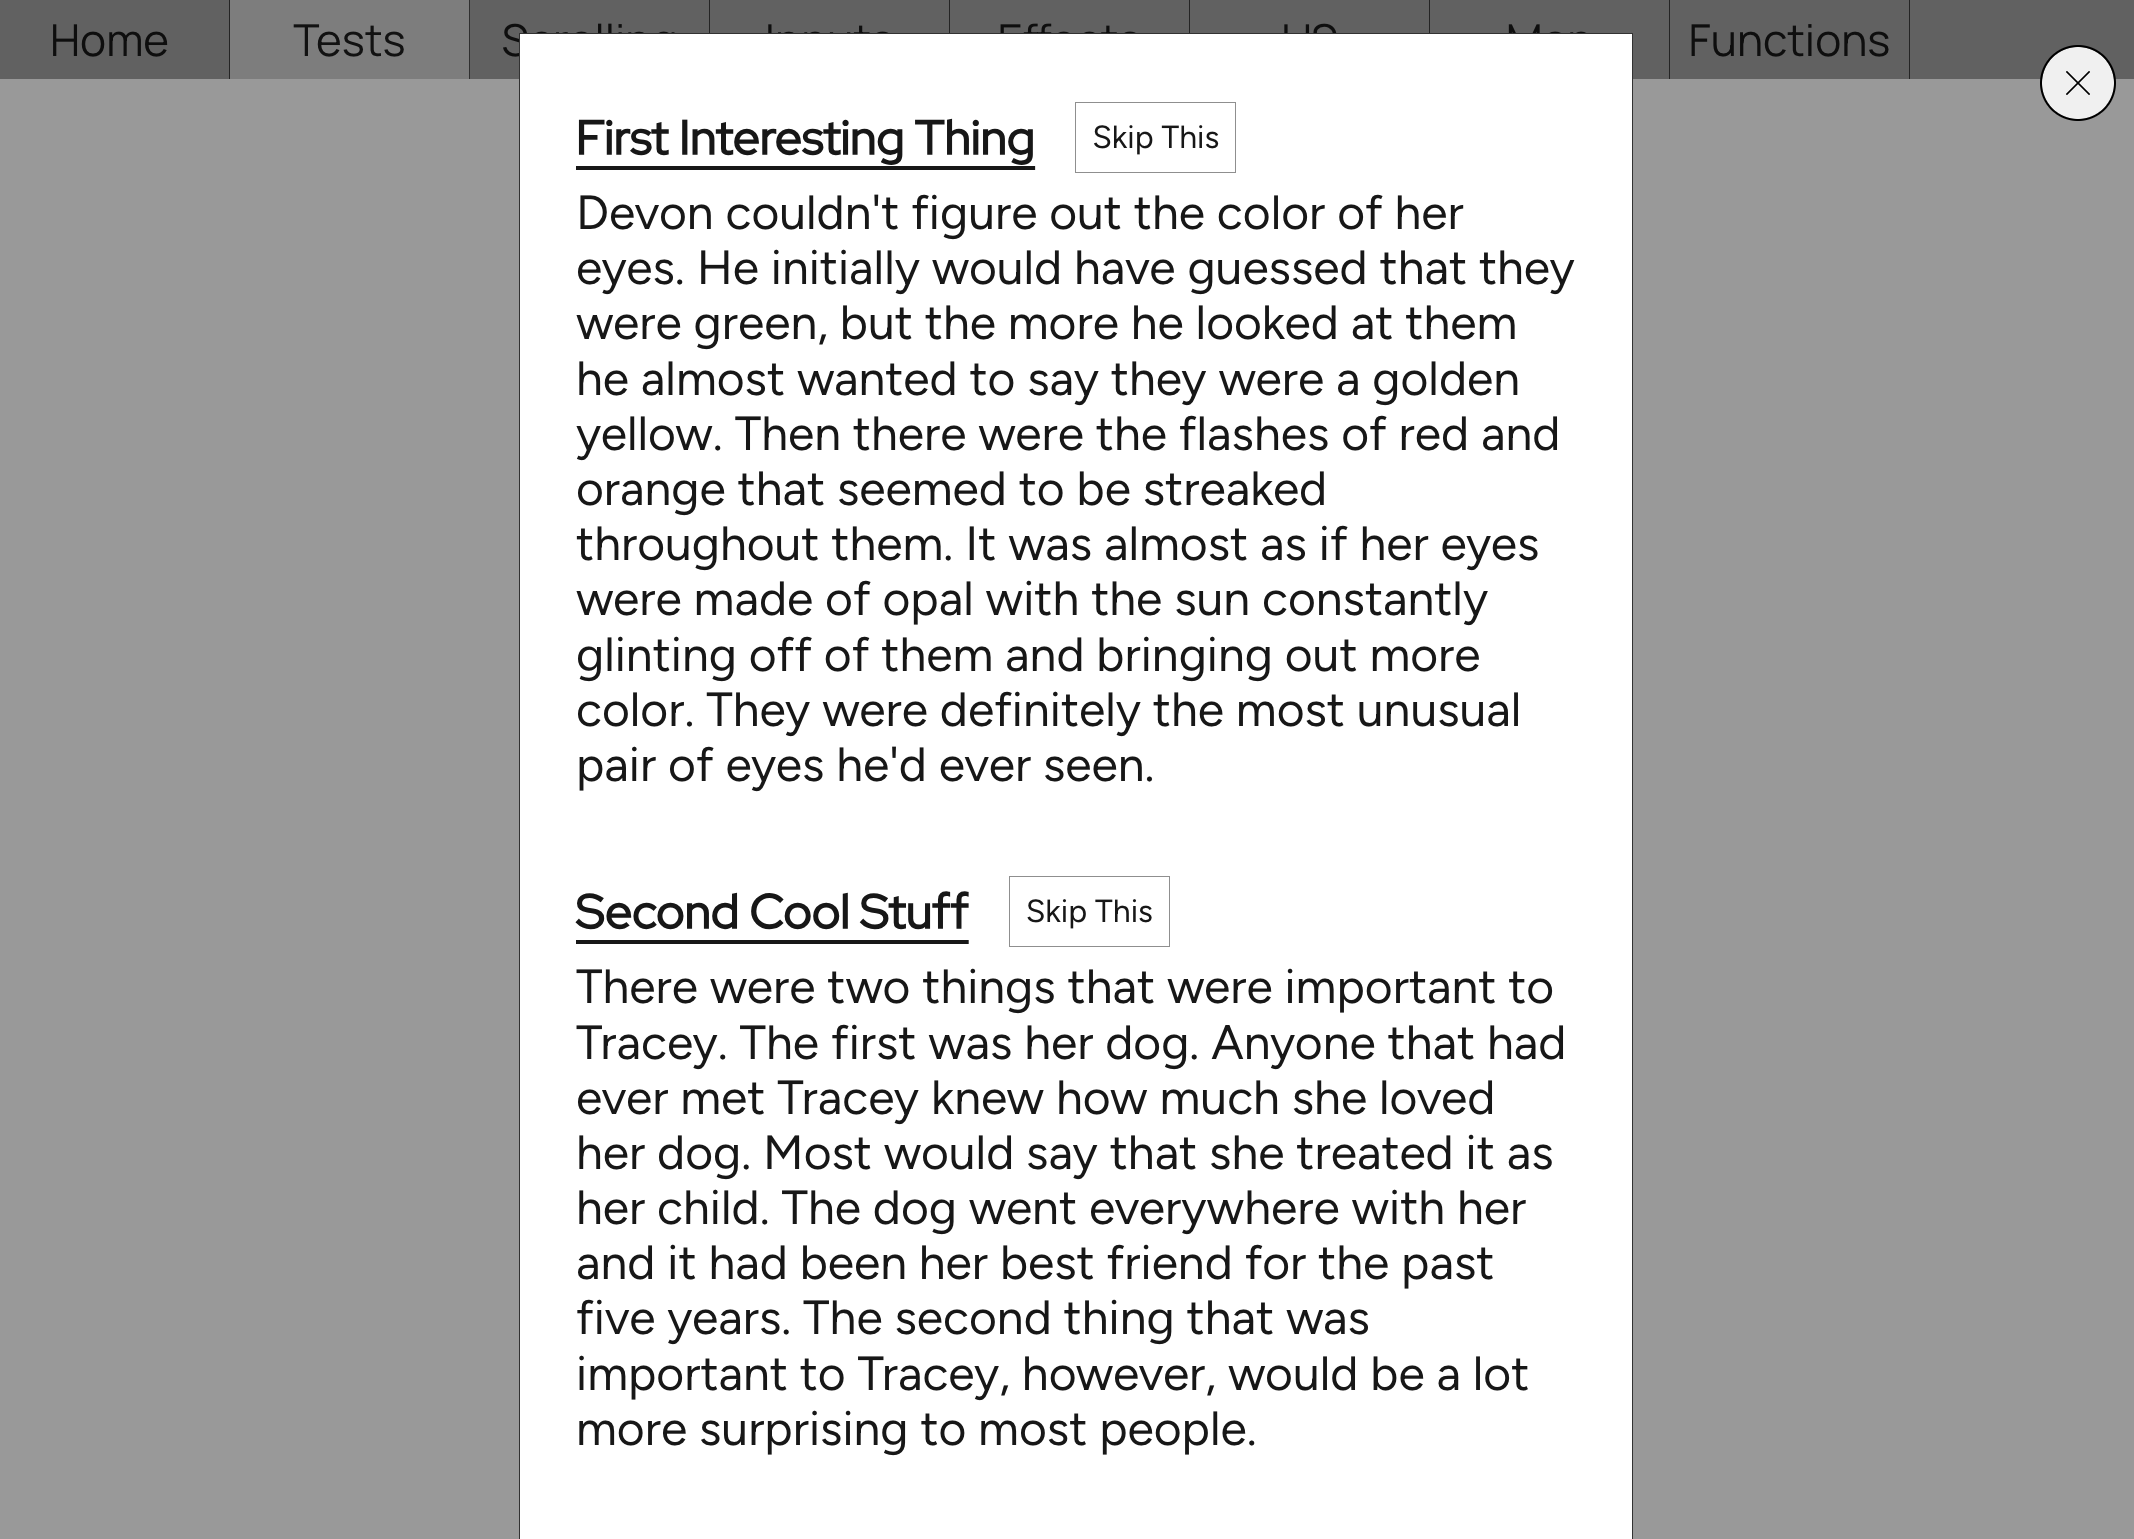
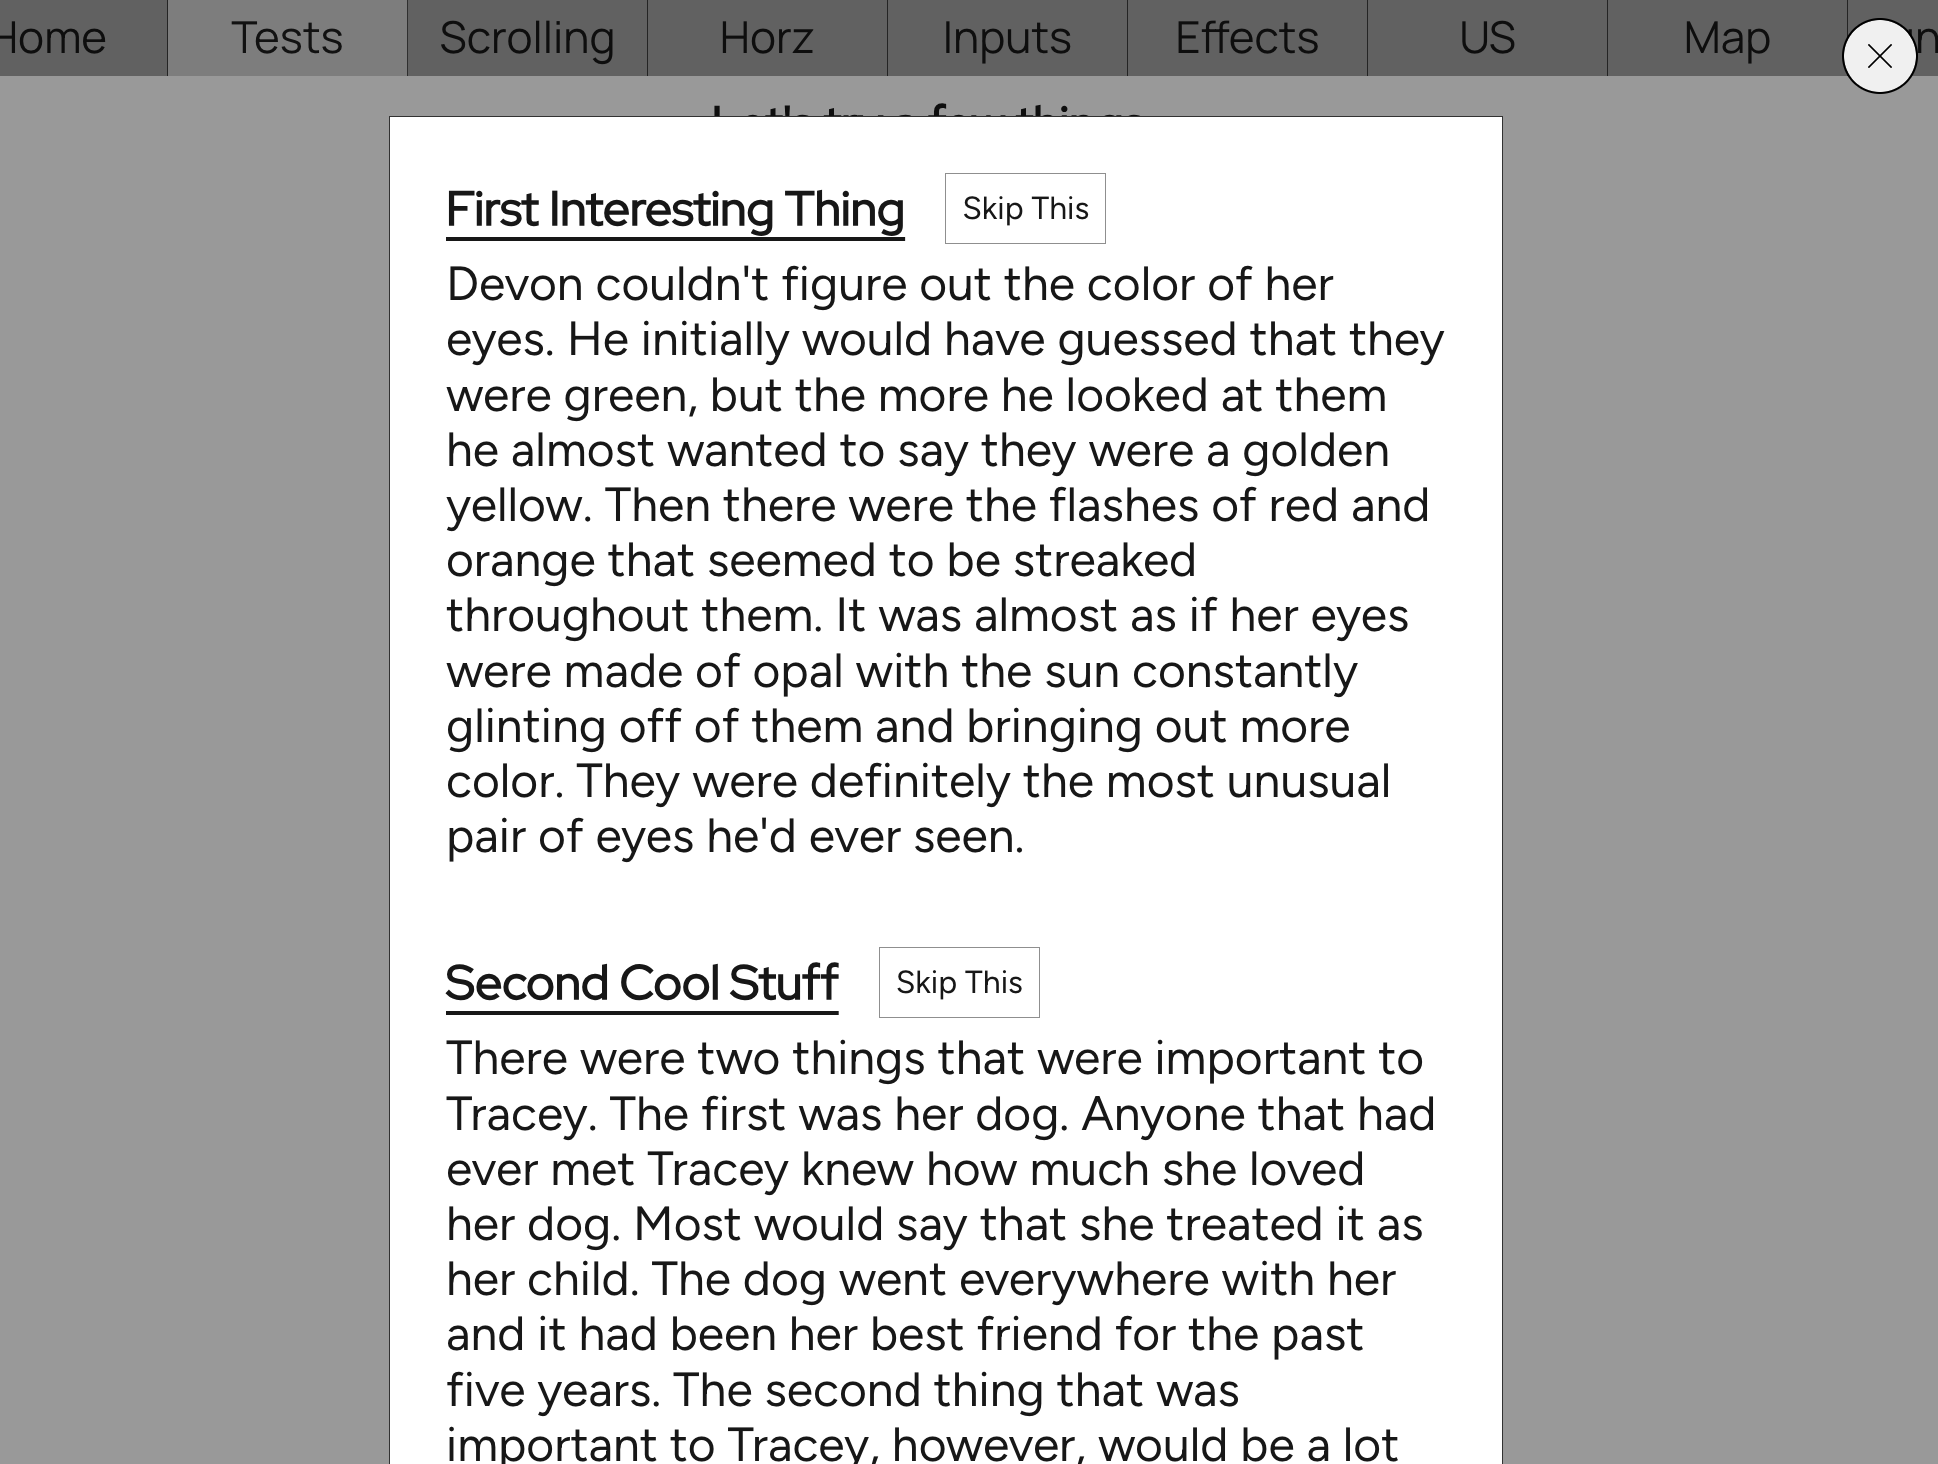
New Modal
made a better version of Modal2, mostly the same

Changed region(s): [[0.0, 0.0, 0.8978, 1.0], [0.9288, 0.0, 1.0, 0.0922]]

diff --git a/Modals/Modal-3/modal.tsx b/Modals/Modal-3/modal.tsx
@@ -50,26 +50,24 @@ export default function Modal({ children, closeFunction }: ModalProps) {
   return (
     <FocusTrap>
       <div className={styles.backdrop} onClick={closeModal}>
-        <div className={styles.backdropTop}>
-          <button
-            className={styles.closeButton}
-            onClick={closeModal}
-            aria-label={"Close Modal"}
+        <button
+          className={styles.closeButton}
+          onClick={closeModal}
+          aria-label={"Close Modal"}
+        >
+          <svg
+            id="close-icon"
+            width="122.878px"
+            height="122.88px"
+            viewBox="0 0 122.878 122.88"
+            enable-background="new 0 0 122.878 122.88"
+            className={styles.closeIcon}
           >
-            <svg
-              id="close-icon"
-              width="122.878px"
-              height="122.88px"
-              viewBox="0 0 122.878 122.88"
-              enable-background="new 0 0 122.878 122.88"
-              className={styles.closeIcon}
-            >
-              <g>
-                <path d="M1.426,8.313c-1.901-1.901-1.901-4.984,0-6.886c1.901-1.902,4.984-1.902,6.886,0l53.127,53.127l53.127-53.127 c1.901-1.902,4.984-1.902,6.887,0c1.901,1.901,1.901,4.985,0,6.886L68.324,61.439l53.128,53.128c1.901,1.901,1.901,4.984,0,6.886 c-1.902,1.902-4.985,1.902-6.887,0L61.438,68.326L8.312,121.453c-1.901,1.902-4.984,1.902-6.886,0 c-1.901-1.901-1.901-4.984,0-6.886l53.127-53.128L1.426,8.313L1.426,8.313z" />
-              </g>
-            </svg>
-          </button>
-        </div>
+            <g>
+              <path d="M1.426,8.313c-1.901-1.901-1.901-4.984,0-6.886c1.901-1.902,4.984-1.902,6.886,0l53.127,53.127l53.127-53.127 c1.901-1.902,4.984-1.902,6.887,0c1.901,1.901,1.901,4.985,0,6.886L68.324,61.439l53.128,53.128c1.901,1.901,1.901,4.984,0,6.886 c-1.902,1.902-4.985,1.902-6.887,0L61.438,68.326L8.312,121.453c-1.901,1.902-4.984,1.902-6.886,0 c-1.901-1.901-1.901-4.984,0-6.886l53.127-53.128L1.426,8.313L1.426,8.313z" />
+            </g>
+          </svg>
+        </button>
         <div className={styles.modal} role="dialog" aria-modal="true">
           {children}
         </div>

diff --git a/Modals/Modal-3/modal.module.css b/Modals/Modal-3/modal.module.css
@@ -5,24 +5,17 @@
   top: 0;
   left: 0;
   display: flex;
-  flex-direction: column;
-  align-items: center;
+  justify-content: center;
   background-color: rgba(0, 0, 0, 0.4);
   z-index: 100;
   cursor: pointer;
   overflow-y: scroll;
-  padding: 0 0 25vh;
-}
-
-.backdropTop {
-  display: flex;
-  width: 100%;
-  justify-content: flex-end;
+  padding: 2vh 0 25vh;
 }
 
 .modal {
   height: max-content;
-  padding: 4px 16px 8px 16px;
+  padding: 10px 16px 10px 16px;
   border: 0.5px solid rgb(50, 50, 50);
   margin: auto 2vw;
   background-color: white;
@@ -42,8 +35,11 @@
   background-color: rgb(240, 240, 240);
   border-radius: 25px;
   padding: 12px;
-  margin: 12px 24px;
   border: 0.5px rgb(50, 50, 50);
+  position: absolute;
+  right: 24px;
+  top: 24px;
+  z-index: 101;
 }
 
 .closeIcon {
